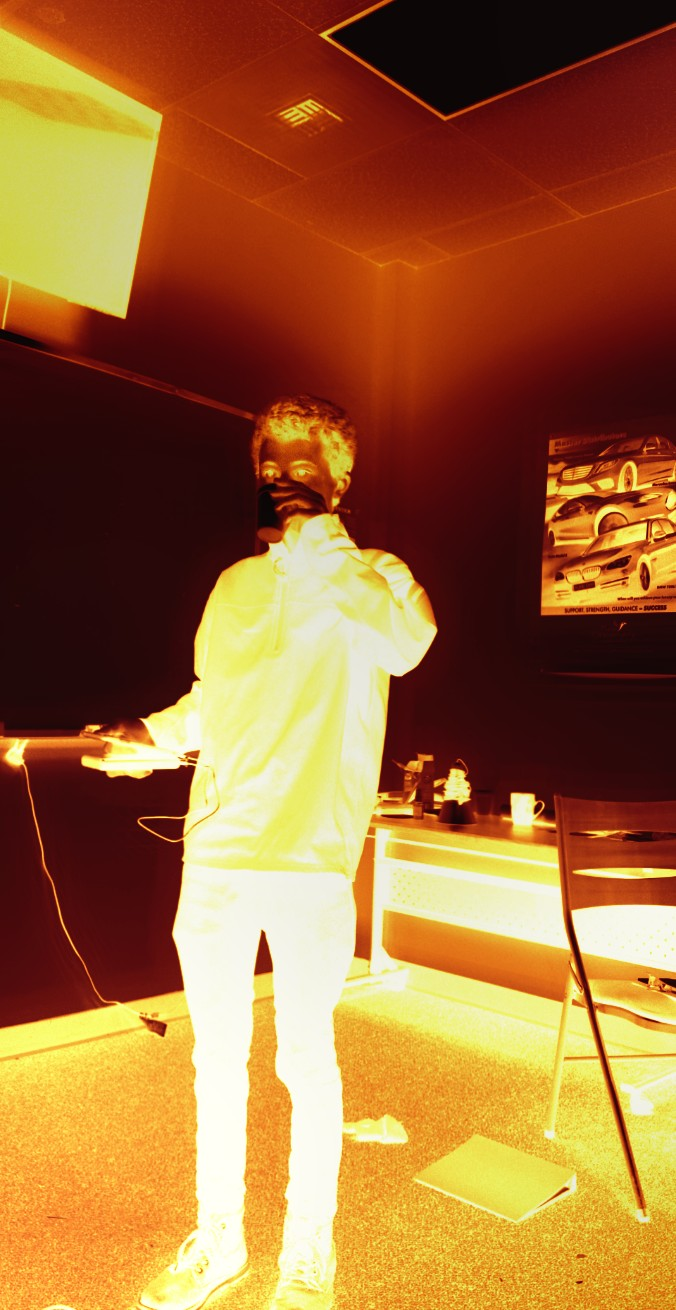
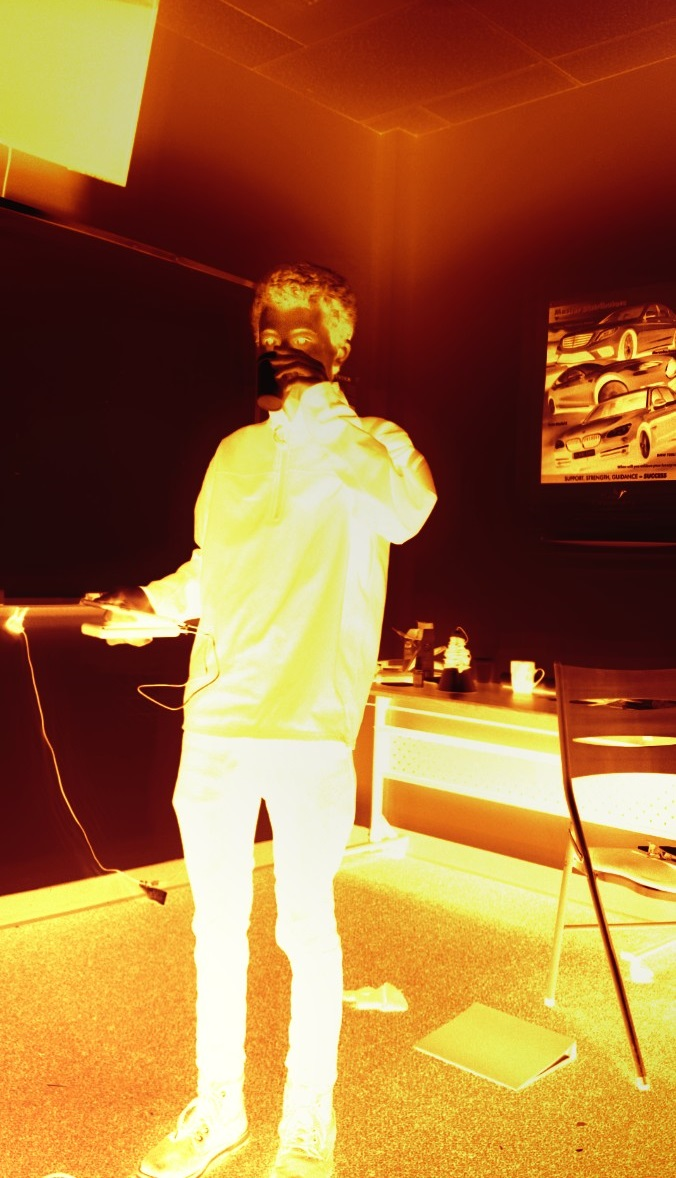
crop "about me" img, change colors & round corners

diff --git a/css/main.css b/css/main.css
@@ -17,7 +17,7 @@
 
   --clr-light: #fff;
   --clr-dark: #303030;
-  --clr-accent: #16e0bd;
+  --clr-accent: hsl(24, 100%, 65%);
 
   --fs-h1: 3rem;
   --fs-h2: 2.25rem;
@@ -26,6 +26,8 @@
 
   --bs: 0.25em 0.25em 0.75em rgba(0, 0, 0, .25),
         0.125em 0.125em 0.25em rgba(0, 0, 0, 0.15);
+
+  --br-round: 4px;
 }
 
 @media (min-width: 800px) {
@@ -64,6 +66,7 @@ img {
 :focus {
   outline: 3px solid var(--clr-accent);
   outline-offset: 3px;
+  border-radius: var(--br-round);
 }
 
 .btn {
@@ -78,6 +81,7 @@ img {
   text-transform: uppercase;
   letter-spacing: 2px;
   transition: all 200ms ease-in-out;
+  border-radius: var(--br-round);
 }
 
 .btn:hover {
@@ -244,10 +248,13 @@ header {
 
 .intro__img {
   box-shadow: var(--bs);
+  border-radius: var(--br-round);
 }
 
 .section__subtitle--intro {
   display: inline-block;
+  text-transform: uppercase;
+  border-radius: var(--br-round);
 }
 
 @media (min-width: 600px) {
@@ -274,6 +281,7 @@ header {
     grid-column: -1 / 1;
     grid-row: 2;
     text-align: right;
+    padding-right: 0.7em;
     position: relative;
     left: -1.5em;
     width: calc(100% + 1.5em)
